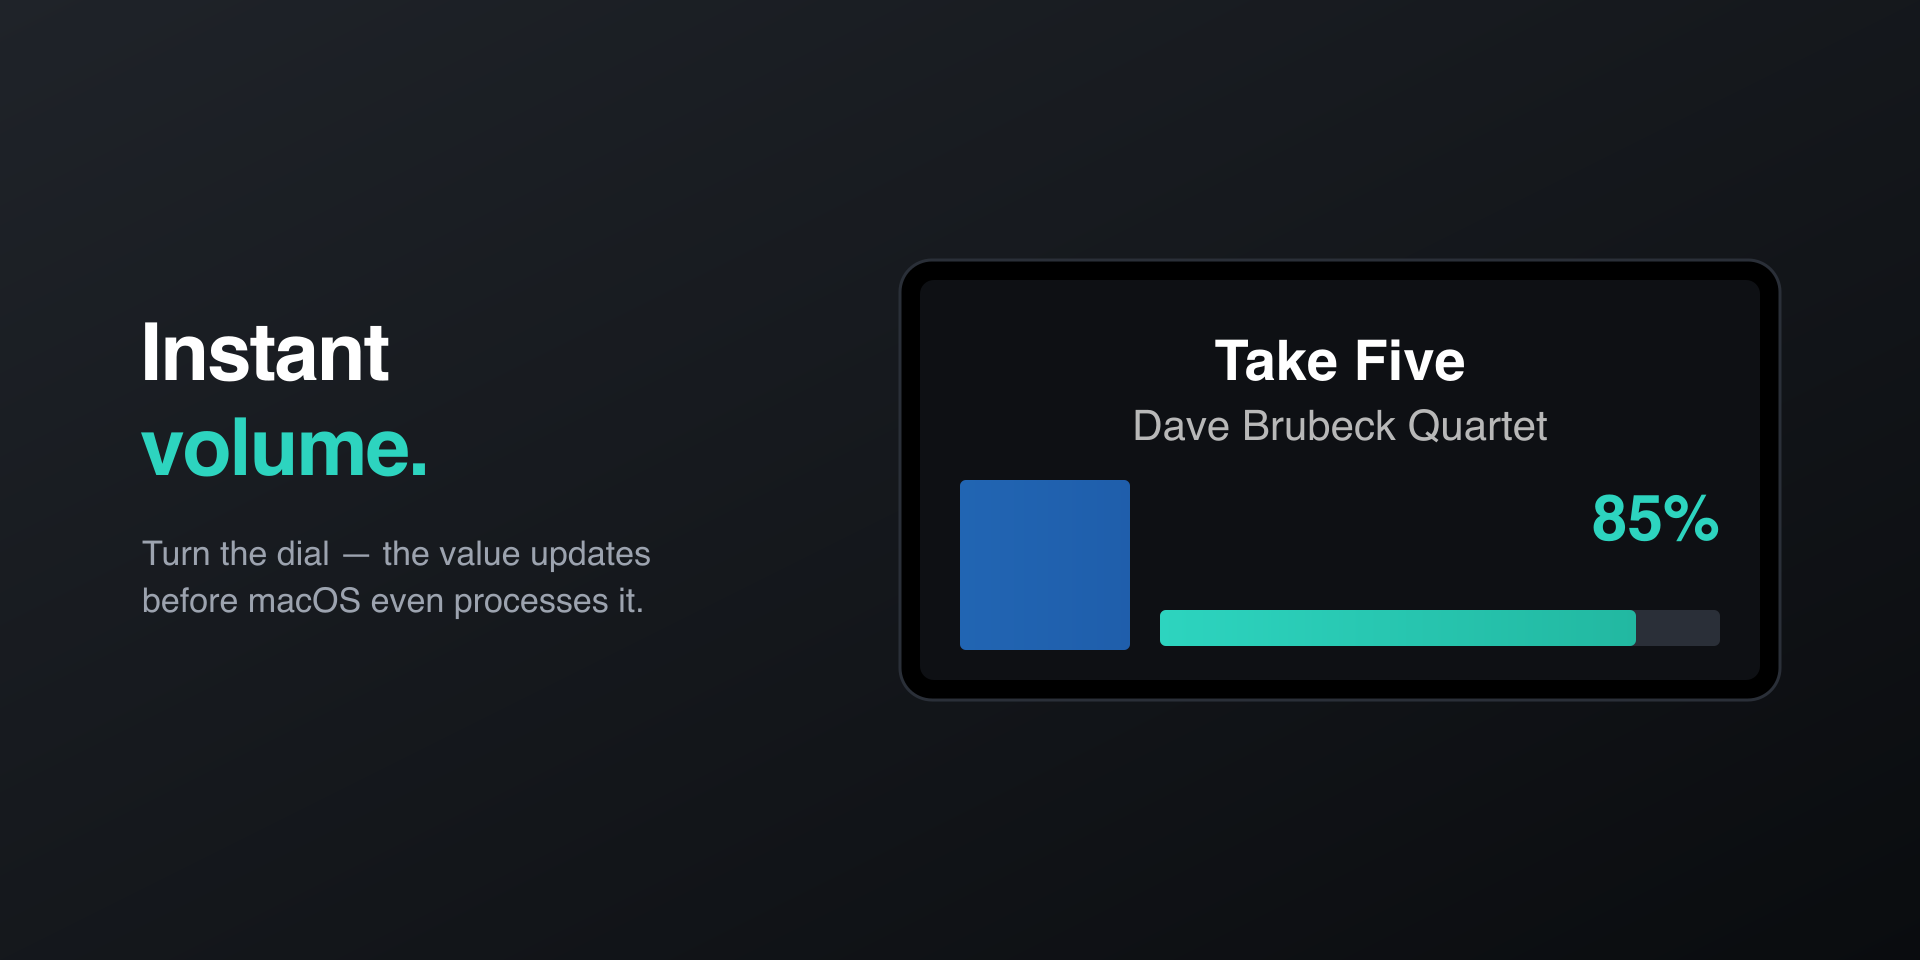
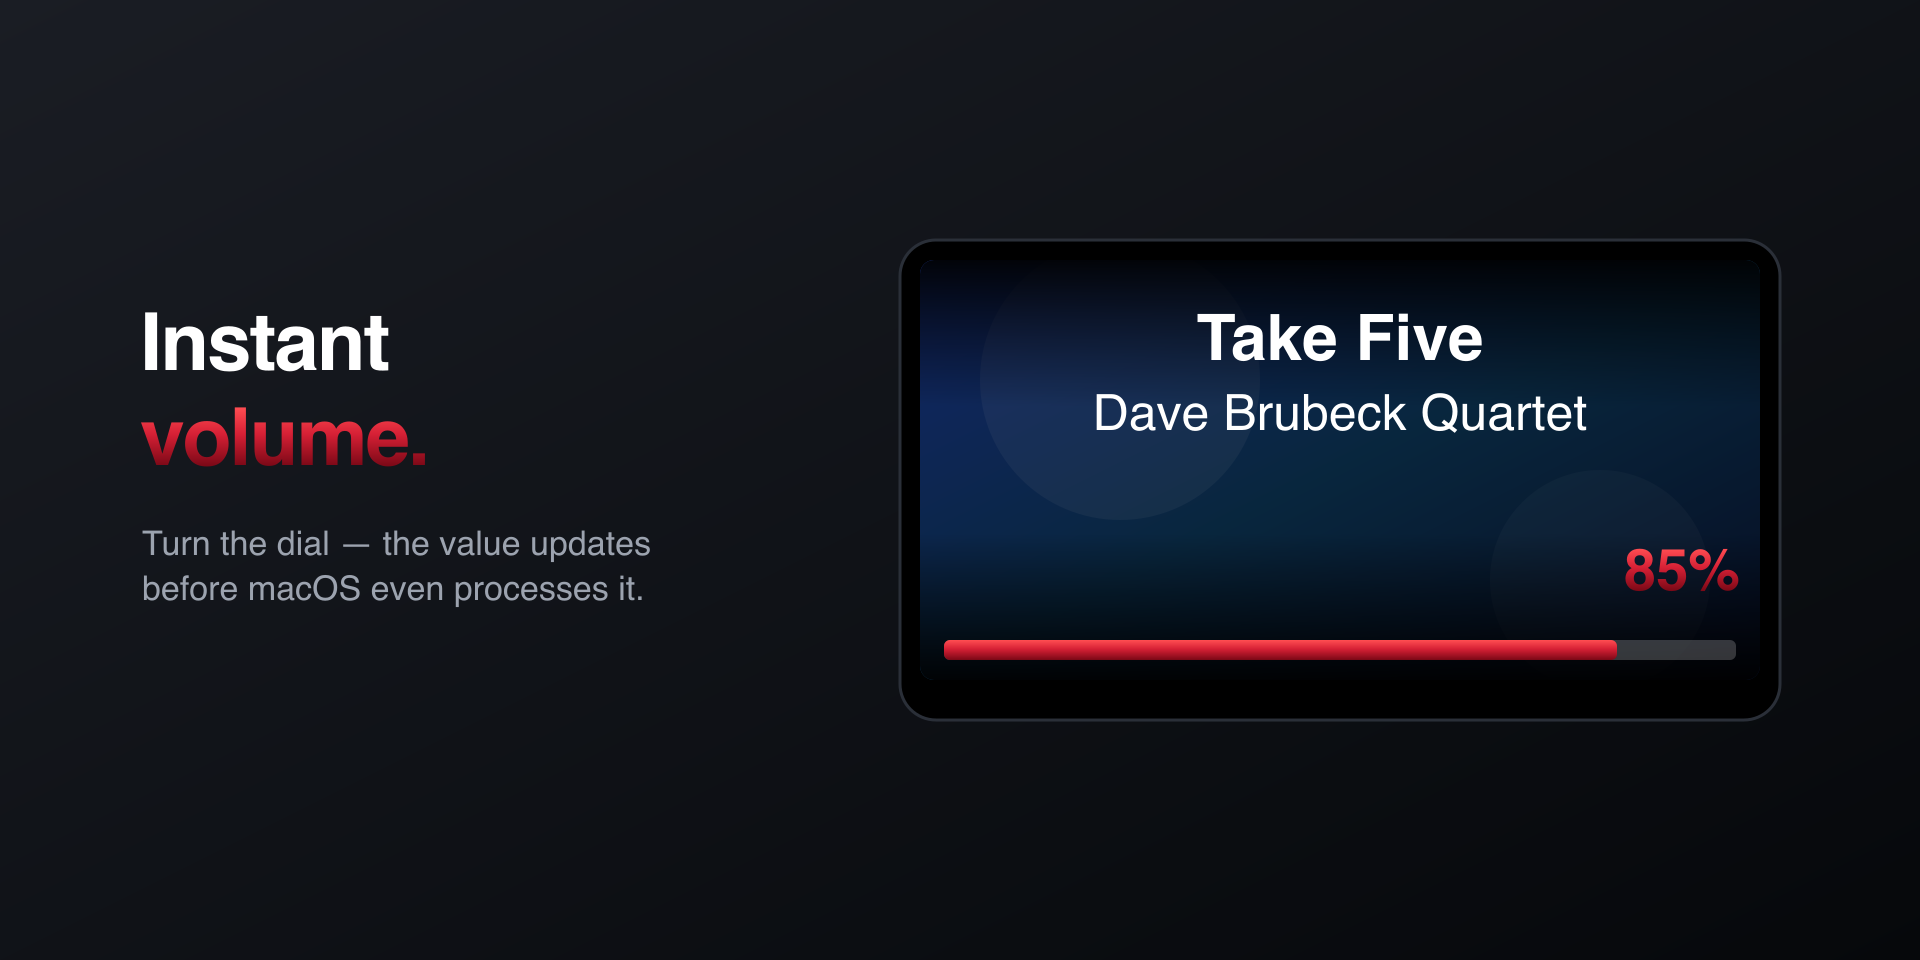
v1.0.0.5: refresh gallery images with new layout + metallic red branding

diff --git a/CHANGELOG.md b/CHANGELOG.md
@@ -3,6 +3,15 @@
 Versionsschema: `{major}.{minor}.{patch}.{build}` (Stream Deck Manifest).
 Jeder Eintrag = ein gepacktes `.streamDeckPlugin`-Bundle.
 
+## 1.0.0.5 — 2026-05-26 — Gallery refresh
+
+- All three marketplace gallery images redrawn:
+  - **Gallery 1** ("See what's playing") — encoder mockup now shows the actual full-cover-background layout with a warm gradient cover and red volume bar.
+  - **Gallery 2** ("Instant volume") — encoder with cool blue cover, prominent 85% red volume display + nearly-full red bar.
+  - **Gallery 3** ("Album art, live on every key") — Stream Deck keypad with one key showing a purple/magenta cover.
+- All assets now consistent with the metallic-red brand palette (volume bar, accent text).
+- Cover mockups refreshed: from flat colored rectangles to subtle gradients with abstract decoration circles for an album-cover feel.
+
 ## 1.0.0.4 — 2026-05-26 — Logo final (EQ bars)
 
 - **Inner symbol changed to equalizer bars** — the smooth sine wave looked too heartbeat-like. EQ bars are unambiguously "audio in motion".